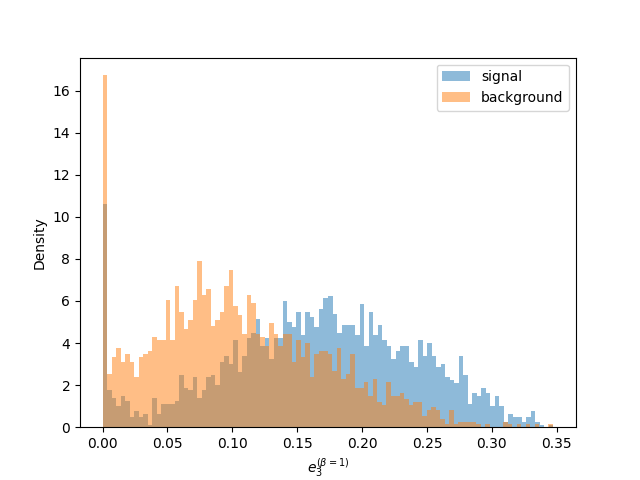
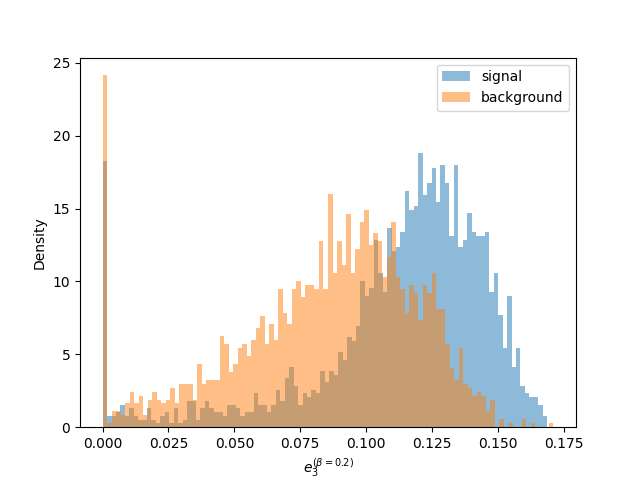
Repeated ECF for beta = 0.2

diff --git a/scripts/hl_observables/ECF_C2Beta_D2Beta.py b/scripts/hl_observables/ECF_C2Beta_D2Beta.py
@@ -2,11 +2,11 @@ import matplotlib.pyplot as plt
 import awkward as ak
 import numpy as np
 
-sig_e2 = ak.from_parquet("cache/signal_e2_beta_05_1000.parquet")["e2_beta_0.5"]
-bkg_e2 = ak.from_parquet("cache/bkg_e2_beta_05_1000.parquet")["e2_beta_0.5"]
+sig_e2 = ak.from_parquet("cache/signal_e2_beta_02_1000.parquet")["e2_beta_0.2"]
+bkg_e2 = ak.from_parquet("cache/bkg_e2_beta_02_1000.parquet")["e2_beta_0.2"]
 
-sig_e3 = ak.from_parquet("cache/signal_e3_beta_05_1000.parquet")["e3_beta_0.5"]
-bkg_e3 = ak.from_parquet("cache/bkg_e3_beta_05_1000.parquet")["e3_beta_0.5"]
+sig_e3 = ak.from_parquet("cache/signal_e3_beta_02_1000.parquet")["e3_beta_0.2"]
+bkg_e3 = ak.from_parquet("cache/bkg_e3_beta_02_1000.parquet")["e3_beta_0.2"]
 
 def energy_correlation_C(e2, e3):
     mask = e2 > 0
@@ -26,10 +26,10 @@ plt.hist(sig_C_flat, density=True, label='signal', alpha=0.5, bins=100)
 plt.hist(bkg_C_flat, density=True, label='background', alpha=0.5, bins=100)
 
 plt.legend()
-plt.title(r"Energy correlation function $C_2$ (beta=0.5)")
+plt.title(r"Energy correlation function $C_2$ (beta=0.2)")
 plt.ylabel("Density")
 
-plt.savefig("outputs/plots/hl_observables/energy_correlation_C2Beta05.png")
+plt.savefig("outputs/plots/hl_observables/energy_correlation_C2Beta02.png")
 plt.close()
 
 sig_D = energy_correlation_D(sig_e2, sig_e3)
@@ -42,8 +42,8 @@ plt.hist(sig_D_flat, density=True, label='signal', alpha=0.5, bins=100)
 plt.hist(bkg_D_flat, density=True, label='background', alpha=0.5, bins=100)
 
 plt.legend()
-plt.title(r"Energy correlation function $D_2$ (beta=0.5)")
+plt.title(r"Energy correlation function $D_2$ (beta=0.2)")
 plt.ylabel("Density")
 
-plt.savefig("outputs/plots/hl_observables/energy_correlation_D2Beta05.png")
+plt.savefig("outputs/plots/hl_observables/energy_correlation_D2Beta02.png")
 plt.close()

diff --git a/scripts/hl_observables/2_point_ECF.py b/scripts/hl_observables/2_point_ECF.py
@@ -21,8 +21,8 @@ def ecf2(z, theta2, beta=1):
 
         return ak.sum(zi * zj * theta2**beta, axis=-1)
 
-sig = ecf2(sig_z, sig_theta, beta = 0.5)
-bkg = ecf2(bkg_z, bkg_theta, beta = 0.5)
+sig = ecf2(sig_z, sig_theta, beta = 0.2)
+bkg = ecf2(bkg_z, bkg_theta, beta = 0.2)
 
 sig_flat = ak.to_numpy(ak.flatten(sig, axis=None))
 bkg_flat = ak.to_numpy(ak.flatten(bkg, axis=None))
@@ -30,10 +30,10 @@ bkg_flat = ak.to_numpy(ak.flatten(bkg, axis=None))
 plt.hist(sig_flat, density=True, label='signal', alpha=0.5, bins=100)
 plt.hist(bkg_flat, density=True, label='background', alpha=0.5, bins=100)
 plt.legend()
-plt.title("Two point energy function (beta = 0.5)")
+plt.title("Two point energy function (beta = 0.2)")
 plt.ylabel("Density")
 
-plt.savefig("outputs/plots/two_point_energy_distribution_beta05.png")
+plt.savefig("outputs/plots/two_point_energy_distribution_beta02.png")
 
-ak.to_parquet(ak.Array({"e2_beta_0.5": sig}),"cache/signal_e2_beta_05_1000.parquet", compression=None)
-ak.to_parquet(ak.Array({"e2_beta_0.5": bkg}),"cache/bkg_e2_beta_05_1000.parquet", compression=None)
+ak.to_parquet(ak.Array({"e2_beta_0.2": sig}),"cache/signal_e2_beta_02_1000.parquet", compression=None)
+ak.to_parquet(ak.Array({"e2_beta_0.2": bkg}),"cache/bkg_e2_beta_02_1000.parquet", compression=None)

diff --git a/scripts/hl_observables/3_point_ECF.py b/scripts/hl_observables/3_point_ECF.py
@@ -63,12 +63,12 @@ def ecf3_all_jets(data, beta=1):
 
     return ak.Array(all_e3)
 
-sig_e3 = ecf3_all_jets(sig[:1000], beta=0.5)
-bkg_e3 = ecf3_all_jets(bkg[:1000], beta=0.5)
+sig_e3 = ecf3_all_jets(sig[:1000], beta=0.2)
+bkg_e3 = ecf3_all_jets(bkg[:1000], beta=0.2)
 
-ak.to_parquet(ak.Array({"e3_beta_0.5": sig_e3}),"cache/signal_e3_beta_05_1000.parquet", compression=None)
+ak.to_parquet(ak.Array({"e3_beta_0.2": sig_e3}),"cache/signal_e3_beta_02_1000.parquet", compression=None)
 
-ak.to_parquet(ak.Array({"e3_beta_0.5": bkg_e3}),"cache/bkg_e3_beta_05_1000.parquet", compression=None)
+ak.to_parquet(ak.Array({"e3_beta_0.2": bkg_e3}),"cache/bkg_e3_beta_02_1000.parquet", compression=None)
 
 sig_flat = ak.to_numpy(ak.flatten(sig_e3, axis=None))
 bkg_flat = ak.to_numpy(ak.flatten(bkg_e3, axis=None))
@@ -76,6 +76,6 @@ bkg_flat = ak.to_numpy(ak.flatten(bkg_e3, axis=None))
 plt.hist(sig_flat, bins=100, density=True, label="signal", alpha=0.5)
 plt.hist(bkg_flat, bins=100, density=True, label="background", alpha=0.5)
 plt.legend()
-plt.xlabel(r"$e_3^{(\beta=1)}$")
+plt.xlabel(r"$e_3^{(\beta=0.2)}$")
 plt.ylabel("Density")
-plt.savefig("outputs/plots/e3_beta_1_distribution.png")
+plt.savefig("outputs/plots/e3_beta_02_distribution.png")
